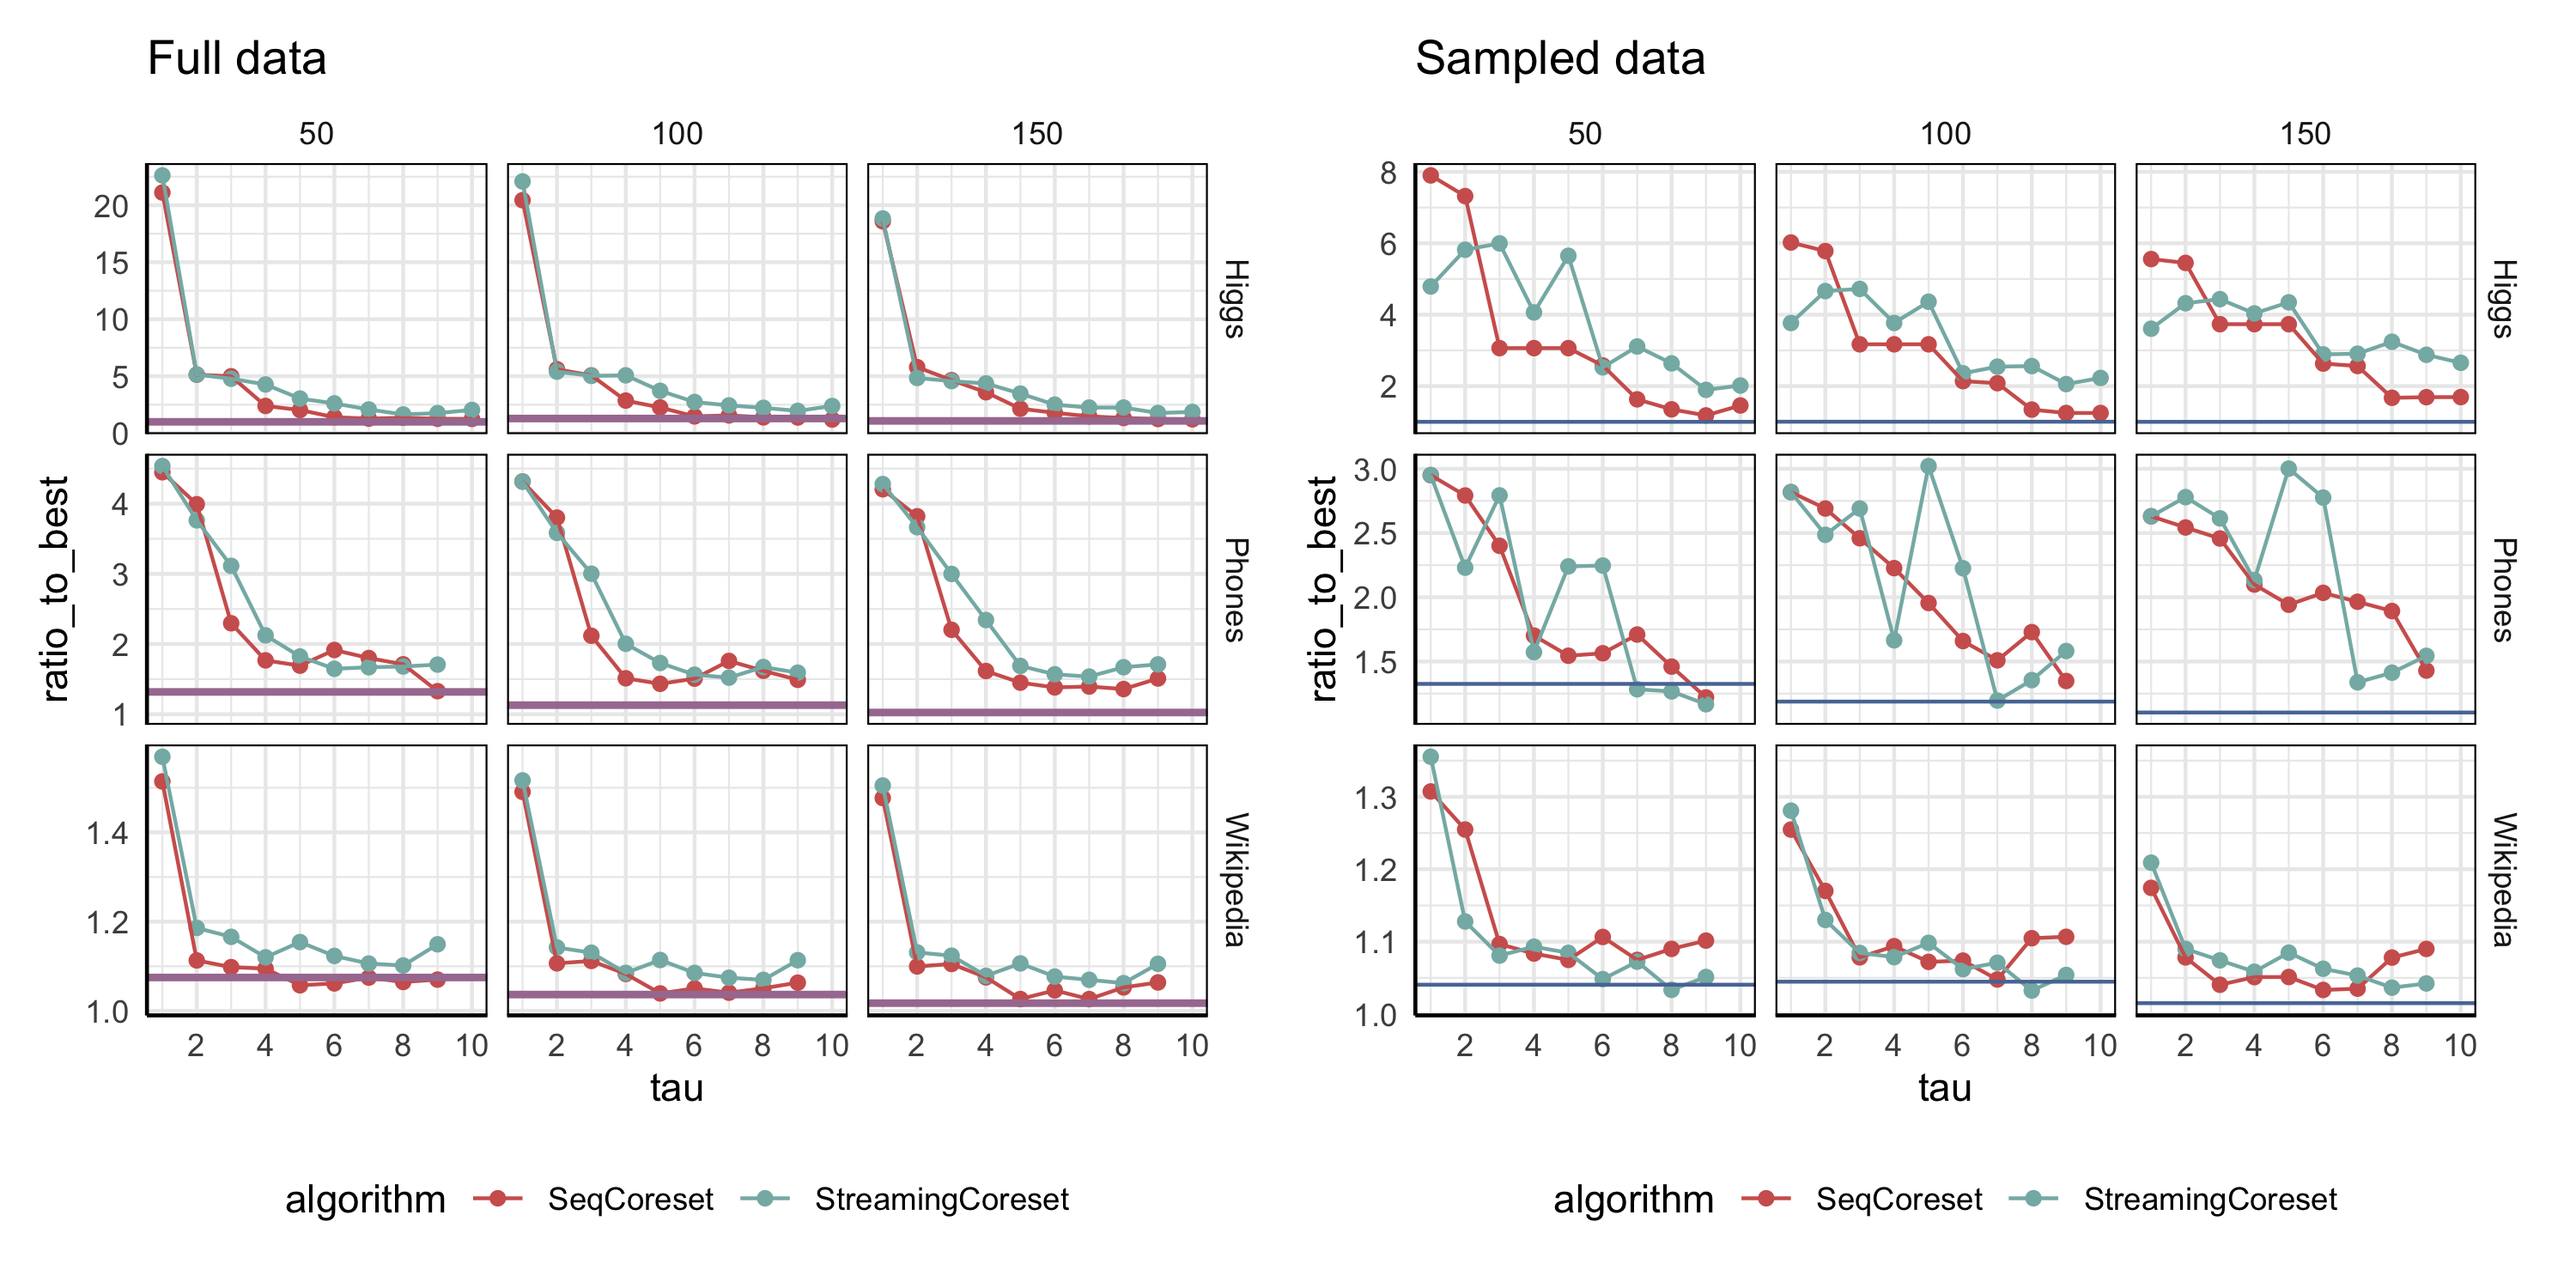
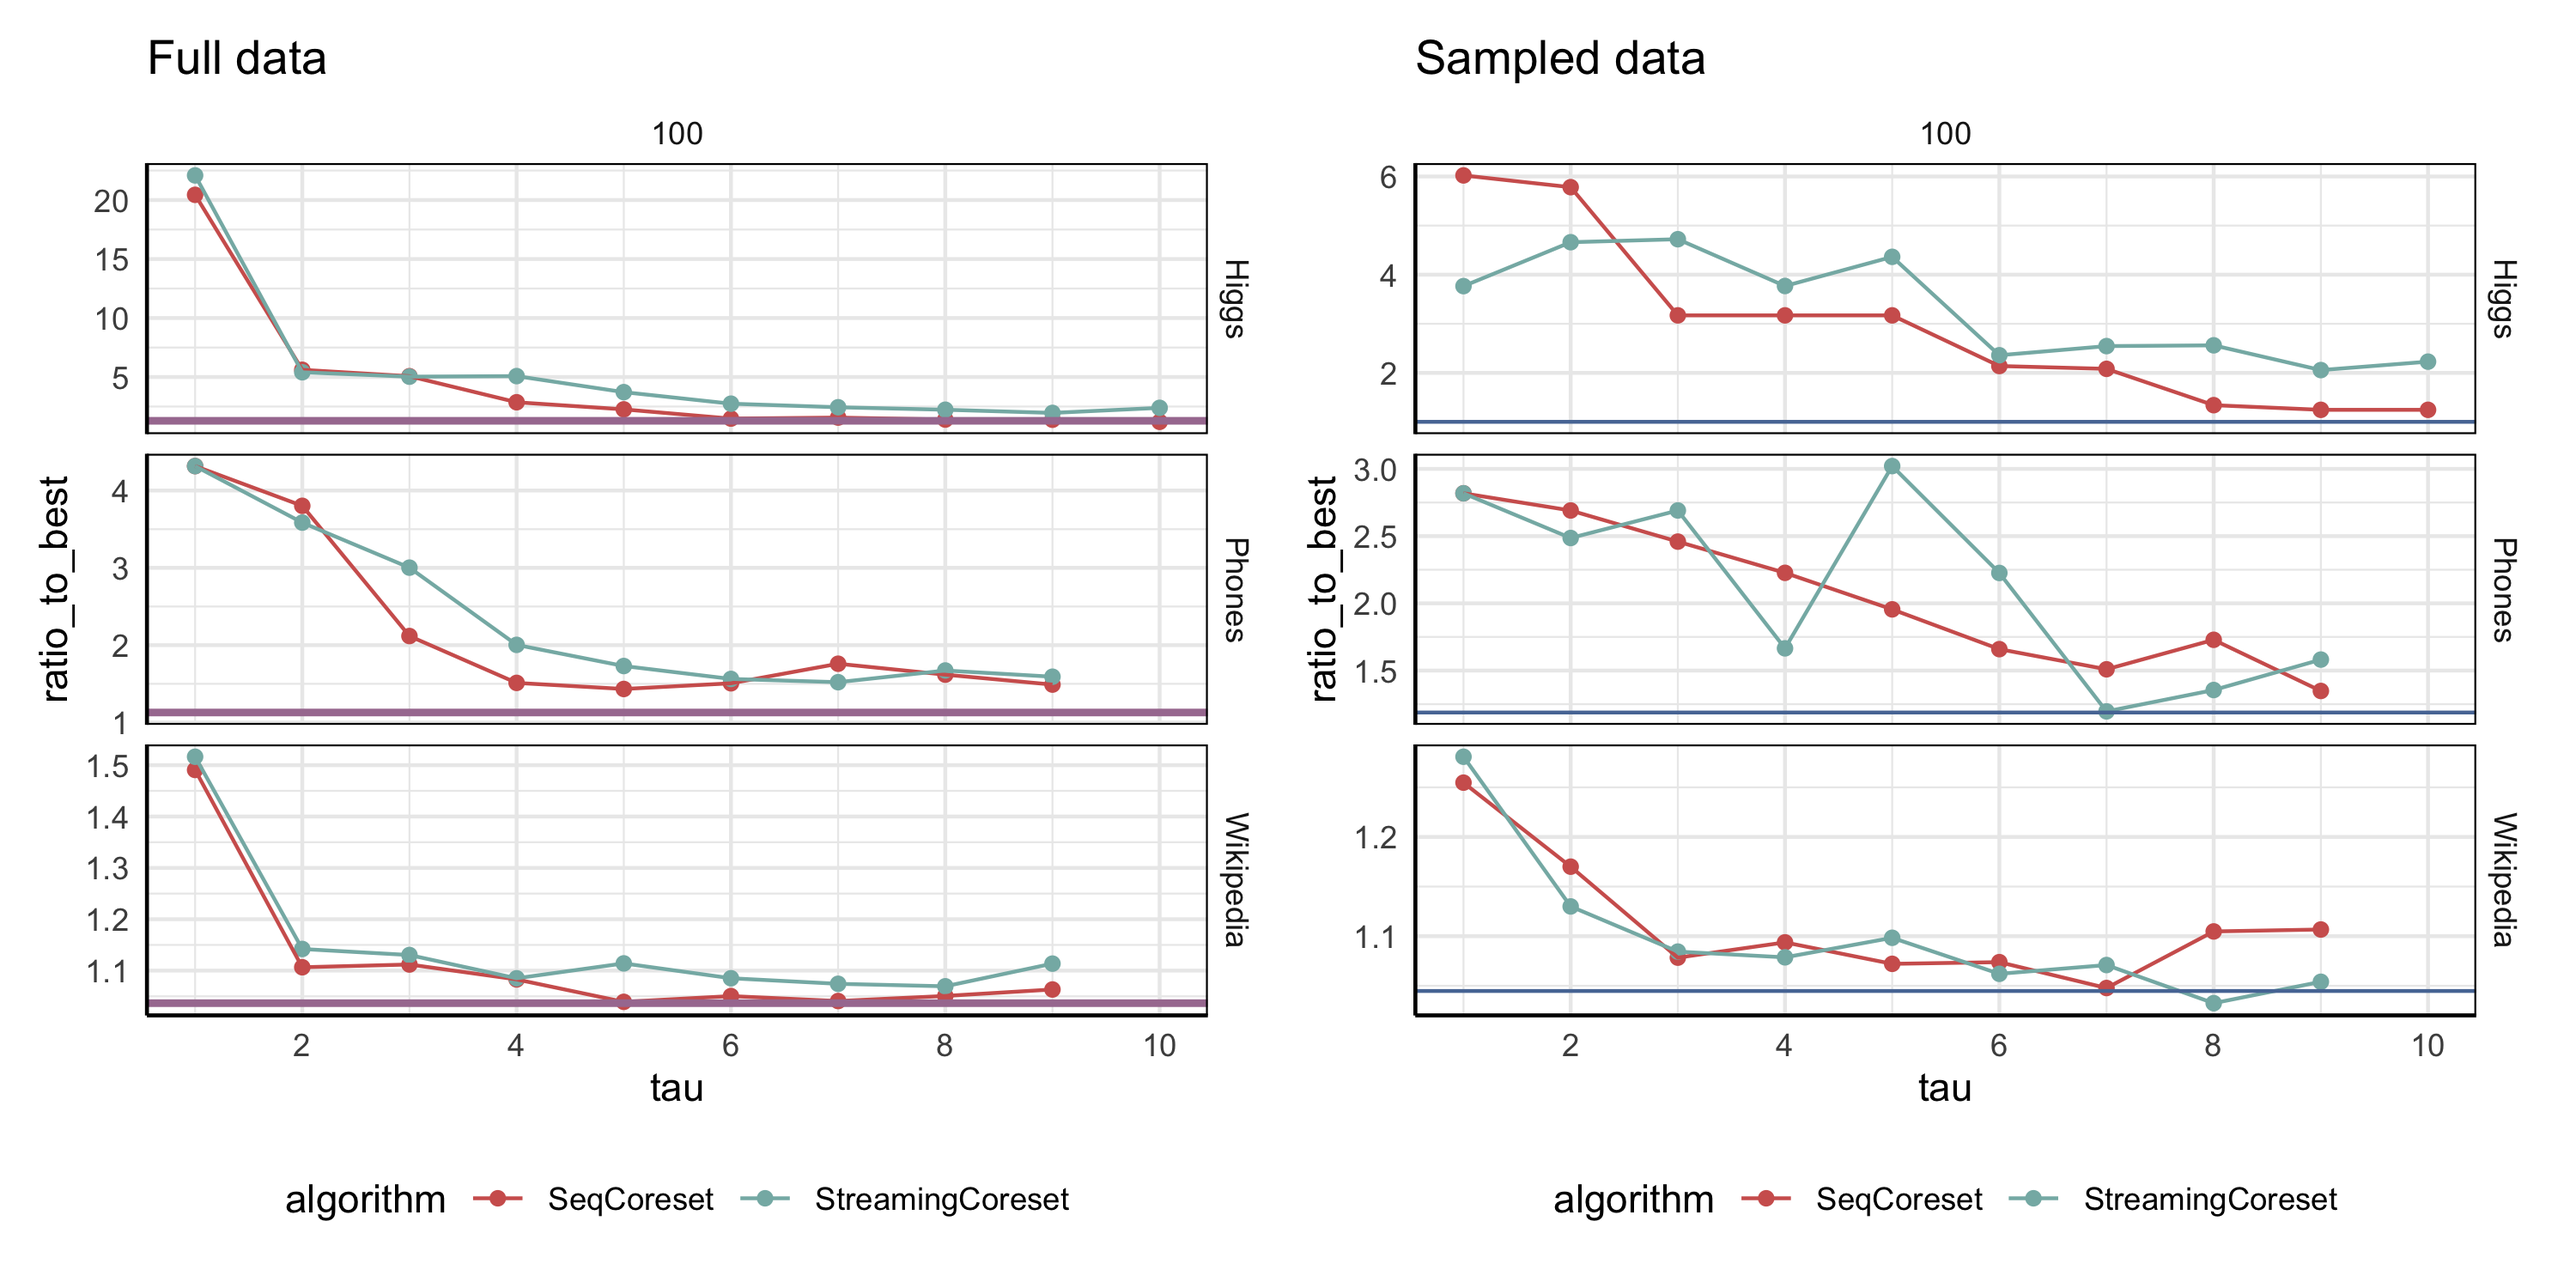
Add new images

Changed region(s): [[0.031, 0.1227, 0.465, 0.828], [0.527, 0.368, 0.961, 0.828], [0.527, 0.1227, 0.961, 0.3373]]

diff --git a/report/experiments.tex b/report/experiments.tex
@@ -88,7 +88,7 @@ gives solutions with very good radius (compared with solutions computed with \ch
 \label{sec:exp:coreset-size}
 
 \begin{figure*}
-    \includegraphics[width=\textwidth]{seq-effect}
+    \includegraphics[width=\textwidth]{seq-effect-50}
     \caption{
         \label{fig:seq-effect}
         Effect of the parameter $\tau$ on the solution quality.
@@ -122,7 +122,7 @@ As we shall see,
 using small coresets has a dramatic effect on the running time.
 
 \begin{figure*}
-    \includegraphics[width=\textwidth]{seq-time}
+    \includegraphics[width=\textwidth]{seq-time-50}
     \caption{
         \label{fig:seq-time}
         Effect of the parameter $\tau$ on the total running time.
@@ -141,7 +141,7 @@ approximation, with the addition of using far less memory, as we shall see in th
 \label{sec:memory}
 
 \begin{figure}
-    \includegraphics[width=\columnwidth]{memory}
+    \includegraphics[width=\columnwidth]{memory-50}
     \caption{\label{fig:memory}Memory required by \stream and \seq to build the coreset.}
 \end{figure}
 
@@ -150,7 +150,8 @@ coreset.
 In particular, recall that \seq needs to store the entire dataset in memory, whereas \stream 
 can work with a small working memory.
 Figure~\ref{fig:memory} reports on the results of this experiments, for varying values of $\tau$
-and fixing the number of outliers to 150 (which does not influence the coreset construction memory).
+and fixing the number of outliers to 150.
+Results with 100 and 50 outliers are similar.
 
 
 \subsection{Scalability of the MapReduce coreset construction}
